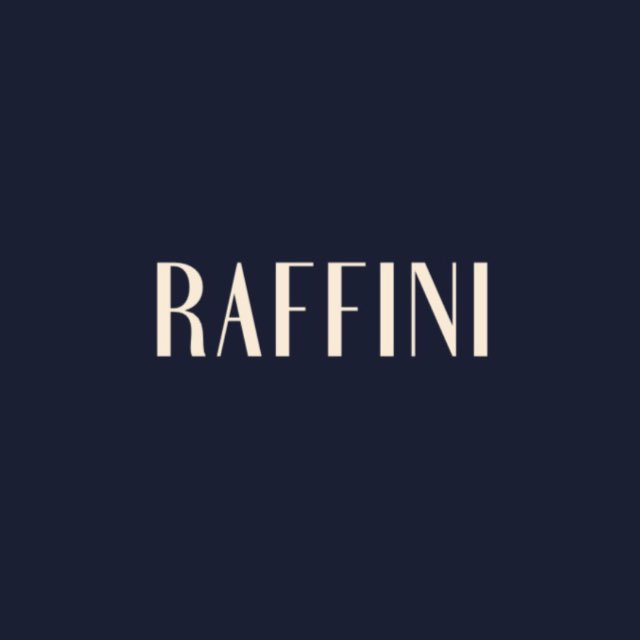
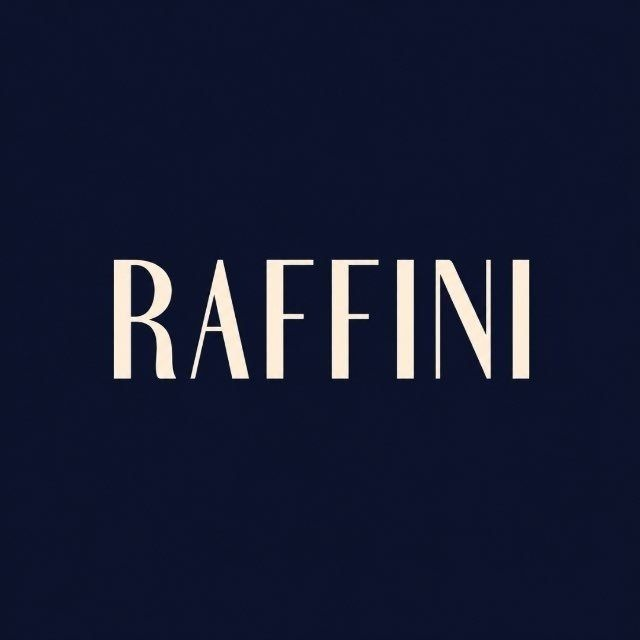
feat: attach official Raffini brand cover photo to Telegram bot /start greeting message

Changed region(s): [[0.1562, 0.4062, 0.8438, 0.5938]]

diff --git a/src/app/api/bot/route.ts b/src/app/api/bot/route.ts
@@ -1,4 +1,6 @@
 import { NextRequest, NextResponse } from 'next/server';
+import fs from 'fs';
+import path from 'path';
 import { RAFFINI_BRANCHES, RAFFINI_INFO } from '@/data/branches';
 
 const BOT_TOKEN = process.env.TELEGRAM_BOT_TOKEN;
@@ -27,6 +29,74 @@ async function sendTelegramMessage(chatId: number | string, text: string, replyM
     console.error('Error sending Telegram message:', error);
     return null;
   }
+}
+
+async function sendTelegramPhoto(
+  chatId: number | string,
+  photoPathOrUrl: string,
+  caption?: string,
+  replyMarkup?: any
+) {
+  if (!BOT_TOKEN) return null;
+
+  // 1. Try uploading local file directly via multipart FormData (Works offline / localhost / production)
+  try {
+    const localRelPath = photoPathOrUrl.startsWith('/') ? photoPathOrUrl.slice(1) : photoPathOrUrl;
+    const fullLocalPath = path.join(process.cwd(), localRelPath);
+    if (fs.existsSync(fullLocalPath)) {
+      const fileBuffer = fs.readFileSync(fullLocalPath);
+      const blob = new Blob([fileBuffer]);
+      const formData = new FormData();
+      formData.append('chat_id', String(chatId));
+      formData.append('photo', blob, 'welcome.jpg');
+      if (caption) {
+        formData.append('caption', caption);
+        formData.append('parse_mode', 'HTML');
+      }
+      if (replyMarkup) {
+        formData.append('reply_markup', JSON.stringify(replyMarkup));
+      }
+
+      const res = await fetch(`https://api.telegram.org/bot${BOT_TOKEN}/sendPhoto`, {
+        method: 'POST',
+        body: formData,
+      });
+      const data = await res.json();
+      if (data.ok) return data;
+      console.warn('sendPhoto multipart response not ok:', data);
+    }
+  } catch (err) {
+    console.warn('Local photo upload failed, attempting URL method:', err);
+  }
+
+  // 2. Fallback: Send public URL
+  try {
+    const photoUrl = photoPathOrUrl.startsWith('http')
+      ? photoPathOrUrl
+      : `${WEBAPP_URL}${photoPathOrUrl.startsWith('/') ? '' : '/'}${photoPathOrUrl}`;
+
+    const res = await fetch(`https://api.telegram.org/bot${BOT_TOKEN}/sendPhoto`, {
+      method: 'POST',
+      headers: { 'Content-Type': 'application/json' },
+      body: JSON.stringify({
+        chat_id: chatId,
+        photo: photoUrl,
+        caption,
+        parse_mode: 'HTML',
+        reply_markup: replyMarkup,
+      }),
+    });
+    const data = await res.json();
+    if (data.ok) return data;
+  } catch (err) {
+    console.warn('URL sendPhoto failed:', err);
+  }
+
+  // 3. Fallback: If Telegram photo methods fail, send message with caption
+  if (caption) {
+    return await sendTelegramMessage(chatId, caption, replyMarkup);
+  }
+  return null;
 }
 
 async function editTelegramMessage(chatId: number | string, messageId: number, text: string, replyMarkup?: any) {
@@ -152,7 +222,7 @@ Do‘konni ochish uchun quyidagi <b>"🛍 Do‘konni ochish"</b> tugmasini bosin
           ],
         };
 
-        await sendTelegramMessage(chatId, welcomeText, keyboard);
+        await sendTelegramPhoto(chatId, 'public/images/bot_welcome.jpg', welcomeText, keyboard);
         return NextResponse.json({ ok: true });
       }
 
